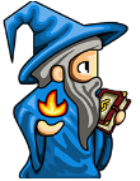
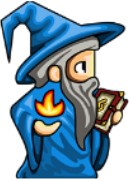
added character collision

diff --git a/src/me/simonhaasnoot/geinigspel/game/GameStateManager.java b/src/me/simonhaasnoot/geinigspel/game/GameStateManager.java
@@ -1,4 +1,5 @@
 package me.simonhaasnoot.geinigspel.game;
+import me.simonhaasnoot.geinigspel.game.entity.CharacterObject;
 import me.simonhaasnoot.geinigspel.game.entity.GameObject;
 import me.simonhaasnoot.geinigspel.game.level.BaseLevel;
 import me.simonhaasnoot.geinigspel.game.time.FrameTime;
@@ -35,22 +36,20 @@ public class GameStateManager {
      */
     private Image backgroundImg;
 
+    public CharacterObject wizardCharacter;
+
     /**
      * Constructor.
      */
     public GameStateManager() {
         // FIXME: THIS IS SOME TEST CODE!
-        // TEST: Create a game object
+
 //        GameObjectTest got = new GameObjectTest(10, 10, 100, 100);
-//        got.setSpeedY(10.0);
 //        addGameObject(got);
 
-        // TEST: Create a moving wizard
-//        Image img = Toolkit.getDefaultToolkit().createImage("Images/Characters/Wizard.png");
-//        ImageObject imgObj = new ImageObject(30, 30, 140 / 2, 181 / 2, img);
-//        imgObj.setSpeedX(100);
-//        addGameObject(imgObj);
-
+        // Add the character object
+        wizardCharacter = new CharacterObject(479, 595);
+        addGameObject(wizardCharacter);
 
         // Start the timer
         this.levelTimer.restart();

diff --git a/src/me/simonhaasnoot/geinigspel/game/entity/FireballObject.java b/src/me/simonhaasnoot/geinigspel/game/entity/FireballObject.java
@@ -1,9 +1,6 @@
 package me.simonhaasnoot.geinigspel.game.entity;
 
-import com.sun.org.apache.regexp.internal.RE;
 import me.simonhaasnoot.geinigspel.game.GameManager;
-import me.simonhaasnoot.geinigspel.legacy.Character;
-import org.w3c.dom.css.Rect;
 
 import java.awt.*;
 
@@ -81,8 +78,8 @@ public class FireballObject extends ImageObject {
     public void update(){
         super.update();
 
-//        if(hasCollision(GameObject)){
-//            GameManager.getGameStateManager().destroyGameObject(this);
-//        }
+        if(hasCollision(GameManager.getGameStateManager().wizardCharacter)){
+            this.destroy();
+        }
     }
 }

diff --git a/src/me/simonhaasnoot/geinigspel/game/level/Level1.java b/src/me/simonhaasnoot/geinigspel/game/level/Level1.java
@@ -15,8 +15,6 @@ public class Level1 extends BaseLevel {
         // Set the frame background
         GameManager.getGameStateManager().setBackgroundImage(Toolkit.getDefaultToolkit().createImage("Images/Landscape/1028x768BB.png"));
 
-        // Add the character object
-        gsm.addGameObject(new CharacterObject(479, 595));
     }
 
     @Override

diff --git a/src/me/simonhaasnoot/geinigspel/game/entity/CharacterObject.java b/src/me/simonhaasnoot/geinigspel/game/entity/CharacterObject.java
@@ -14,7 +14,7 @@ public class CharacterObject extends ImageObject {
     /**
      * The width of the character.
      */
-    public static final int SIZE_WIDTH = 70;
+    public static final int SIZE_WIDTH = 65;
 
     /**
      * The height of the character.
